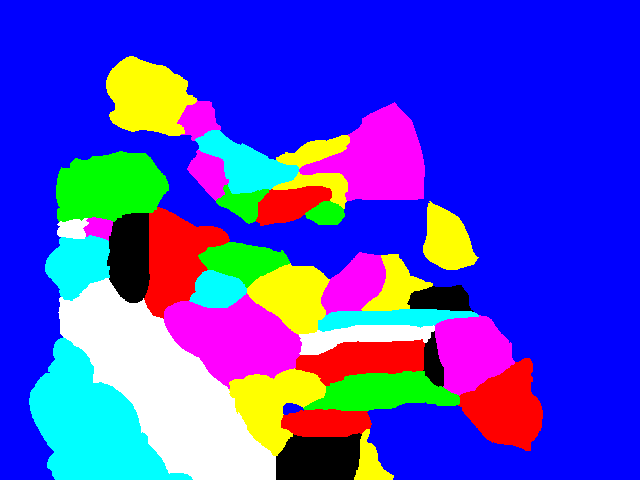
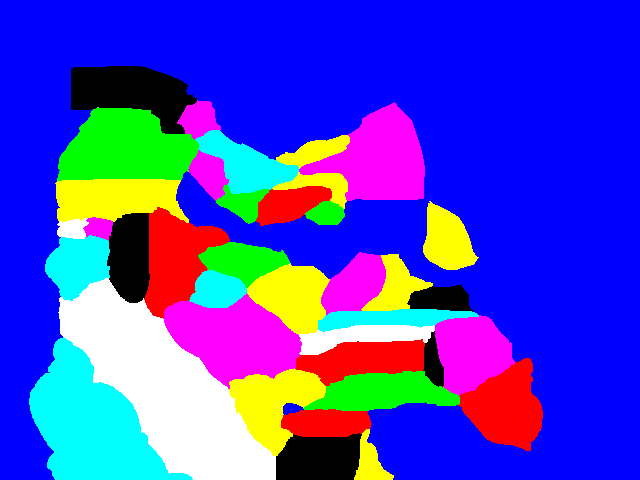
change in water current map

Changed region(s): [[0.0625, 0.0938, 0.3125, 0.4688]]

diff --git a/main.py b/main.py
@@ -11,7 +11,7 @@ import os
 def get_applicators():
     leaks = OilLeakApplicator(780, 1000)
     dispersion = DispersionApplicator(0.1, 0.7)
-    water_current = WaterCurrentApplicator(0.6)
+    water_current = WaterCurrentApplicator(0.8)
     wind = WindApplicator(0.05)
     vapor_photo = VaporPhotoApplicator(0.001, 0.001)
     return [leaks, water_current, wind, dispersion, vapor_photo]
